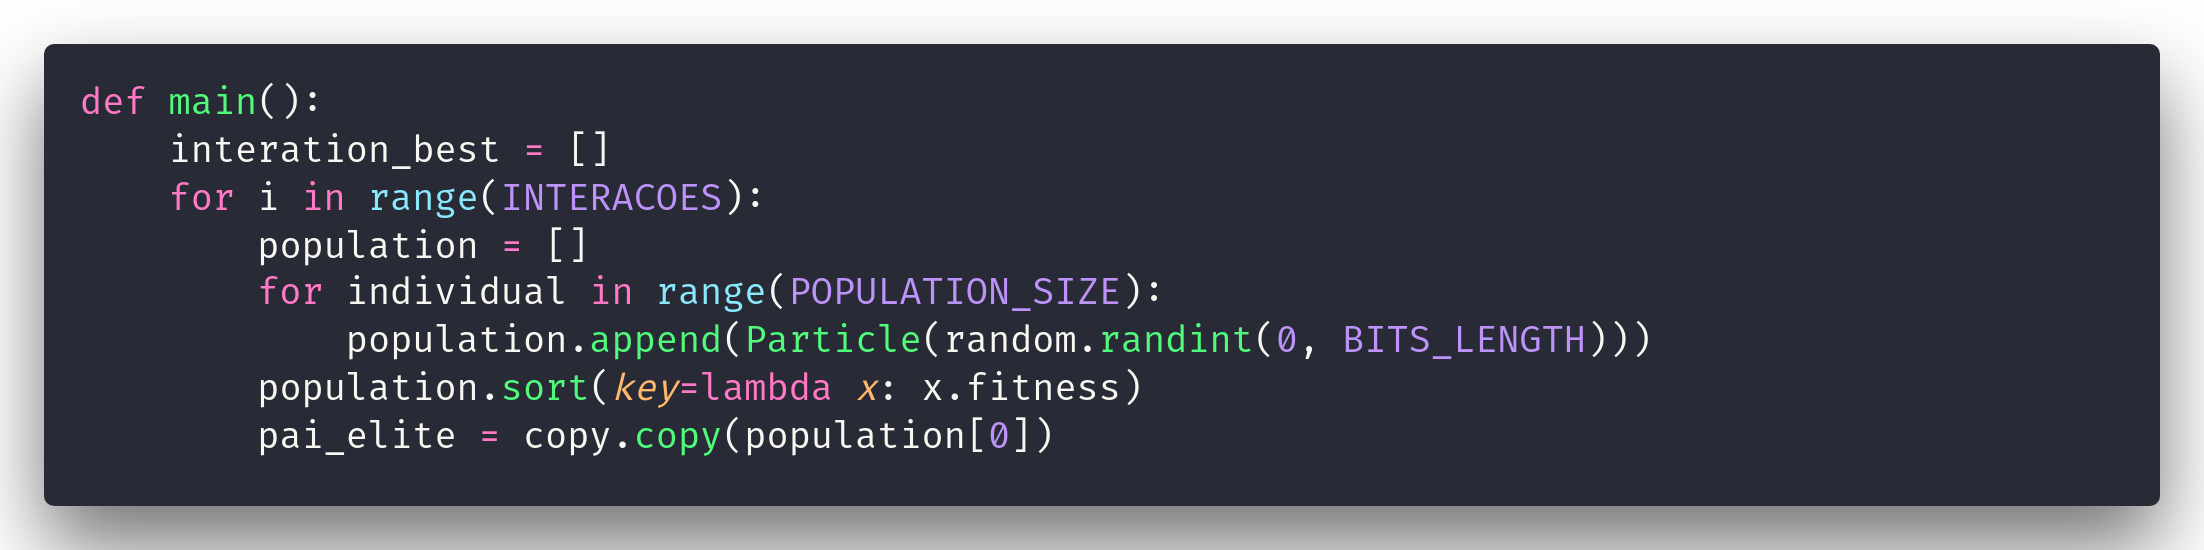
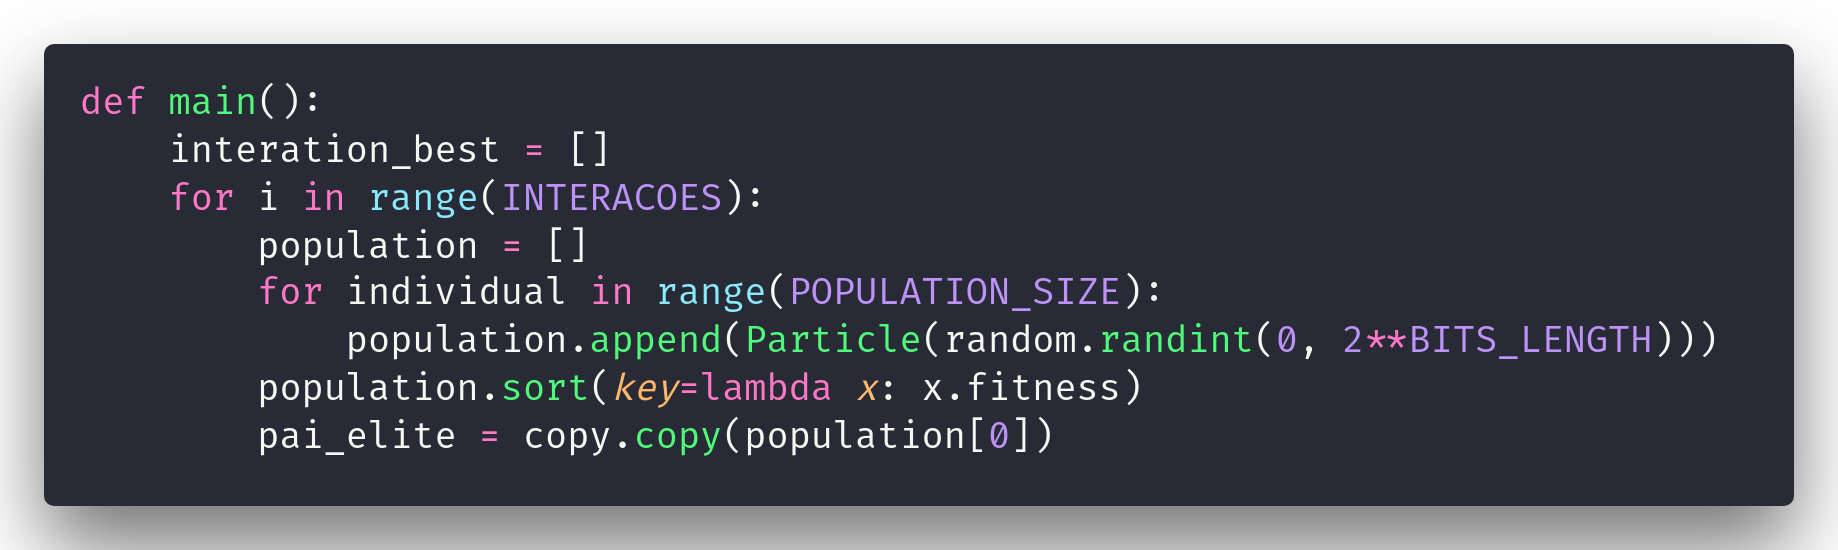
code 1 updated

diff --git a/genetic_algotihm.py b/genetic_algotihm.py
@@ -60,7 +60,7 @@ def main():
     for i in range(INTERACOES):
         population = []
         for individual in range(POPULATION_SIZE):
-            population.append(Particle(random.randint(0, BITS_LENGTH)))
+            population.append(Particle(random.randint(0, 2**BITS_LENGTH)))
         population.sort(key=lambda x: x.fitness)
         pai_elite = copy.copy(population[0])
 
